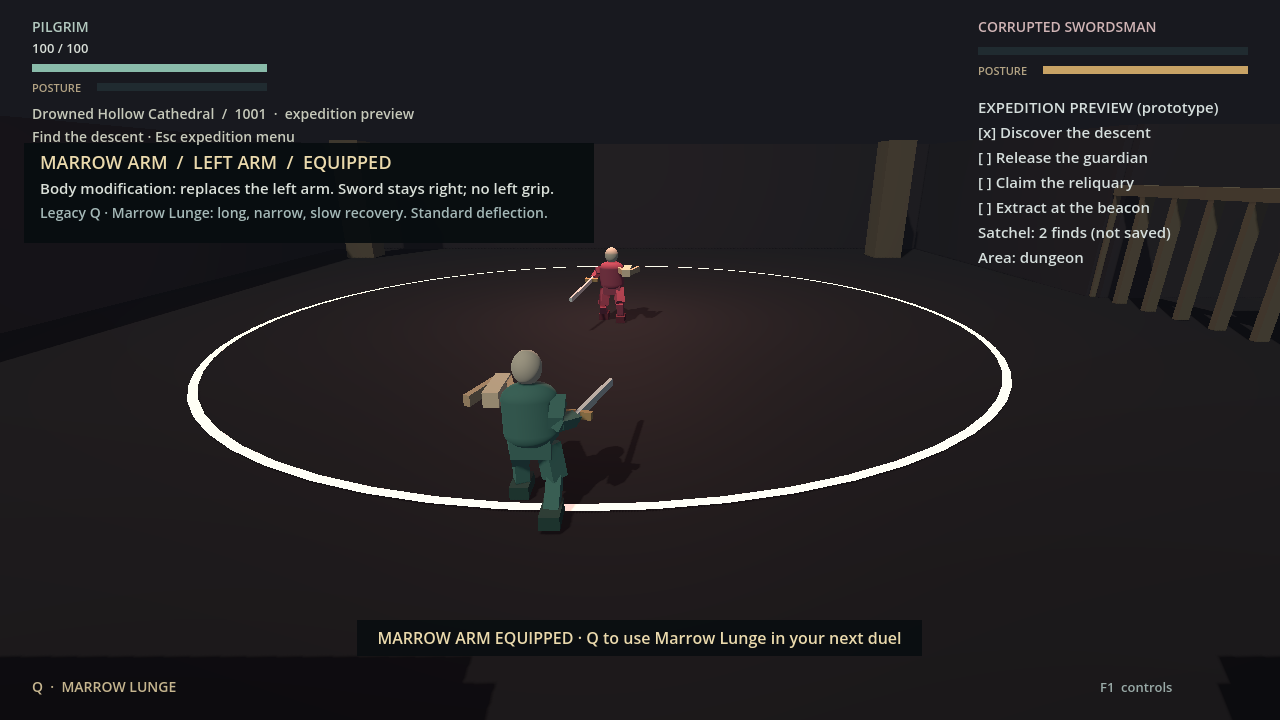
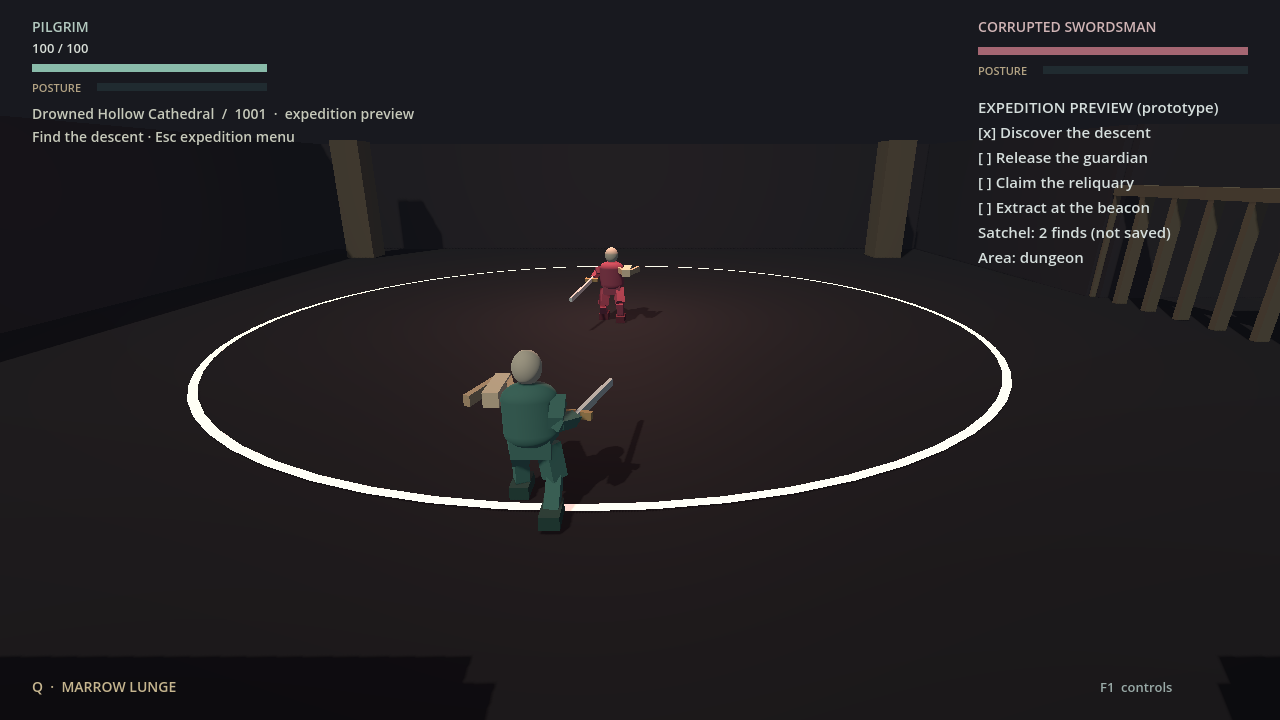
Expedition preview: final evidence, capture/summary polish, stronger seed mutation
- Playthrough captures redraw the HUD before saving (no stale frame).
- Extraction summary replaces the duel HUD instead of drawing over it.
- Relic finds read "Vault relic (...)".
- Seed mutation removes seed influence at the blueprint, so it must fail the
  region-diversity check specifically.
- Evidence regenerated from one clean runner pass; regression runners listed.

Claude-Session: https://claude.ai/code/session_01UgSn23KQoKUdre3CYFntxM

diff --git a/docs/evidence/expedition-preview/README.md b/docs/evidence/expedition-preview/README.md
@@ -30,7 +30,7 @@ bash scripts/tooling/test_expedition_preview.sh artifacts/expedition-preview
 | Input-driven loop, Drowned Hollow Cathedral 1001 | **15/15** loop checks headless and rendered (rendered also passes its 9 capture checks), **identical traces** (8485 ticks): selection UI → sentinel duel → F/E → surface find → descent → guardian duel using Q → gates open → reliquary → side cache → ascent → extraction summary |
 | Same loop, Smoldering Pallid Necropolis 7 and Frozen Gilded Citadel 1002 | 15/15 each, headless (8195 / 8179 ticks) |
 | Source mutations (isolated copies) | Seed removed from the blueprint → region diversity fails; one-cell separation weakened → plan validity fails; environment collision disabled → floor/physics checks fail |
-| Regression runners | See the PR description for the exact list run on this branch |
+| Existing runners on this branch | `test.sh` (courtyard combat/build/adapter/graphical/timing; needed `BONESHED_GRAPHICAL_TIMEOUT=900` here — the 180 s default timed out under llvmpipe while still passing checks), `test_expedition.sh`, `test_melee_lab.sh` (incl. isolation versus `origin/main` `e55a1f2`), `test_worldgen.sh` (80), `test_keyword_grammar.sh`, `test_builds.sh` (205): all passed. Not run: anatomy, animation lab, camera zoom, combat motion, enemy AI, equipment, Marrow, presentation, web |
 
 The bot reads the plan to route (like a player reading a map) and reads visible
 combat timing to choose key events; it writes no position, combat, AI, reward or
@@ -41,14 +41,14 @@ bot's timing is reliable, **not** that the duels are fair or fun.
 
 | Measure | Value |
 | --- | --- |
-| Plan generation (blueprint + regions + dungeon + validation) | 27 ms mean over 144 plans |
+| Plan generation (blueprint + regions + dungeon + validation) | 26.5 ms mean over 144 plans (headless and rendered runs) |
 | Build (`preview_builder.gd`) | 14–16 ms per fixture |
 | Built scene (Drowned 1001) | 809 nodes, 489 mesh instances, 274 collision shapes, 17 lights (smoldering 7: 696/434/217/15) |
 | Static memory (whole process) | headless ~43 MB surface / ~48 MB after the dungeon; rendered ~51 / ~56 MB |
 | Headless simulation, standing | 0.56 ms/frame surface, 0.44 ms/frame dungeon (wall clock, physics + scripts) |
-| Rendered, llvmpipe, standing at arrival | 70 ms mean / 83 ms p95 per frame; 872 draw calls, 1153 objects, 91k primitives |
-| Rendered, llvmpipe, dungeon entry | 62 ms mean / 72 ms p95; 528 draw calls (surface hidden), 1008 objects, 85k primitives |
-| Physics step (monitor) | ~1.8–2.0 ms |
+| Rendered, llvmpipe, standing at arrival | 73 ms mean / 82 ms p95 per frame; 872 draw calls, 1153 objects, 91k primitives |
+| Rendered, llvmpipe, dungeon entry | 68 ms mean / 78 ms p95; 528 draw calls (surface hidden), 1008 objects, 85k primitives |
+| Physics step (monitor) | ~1.6–2.2 ms |
 
 Hiding the inactive area removes its draw calls. llvmpipe numbers measure the
 container's CPU rasteriser and do not predict desktop GPU frame time. Draw calls are
